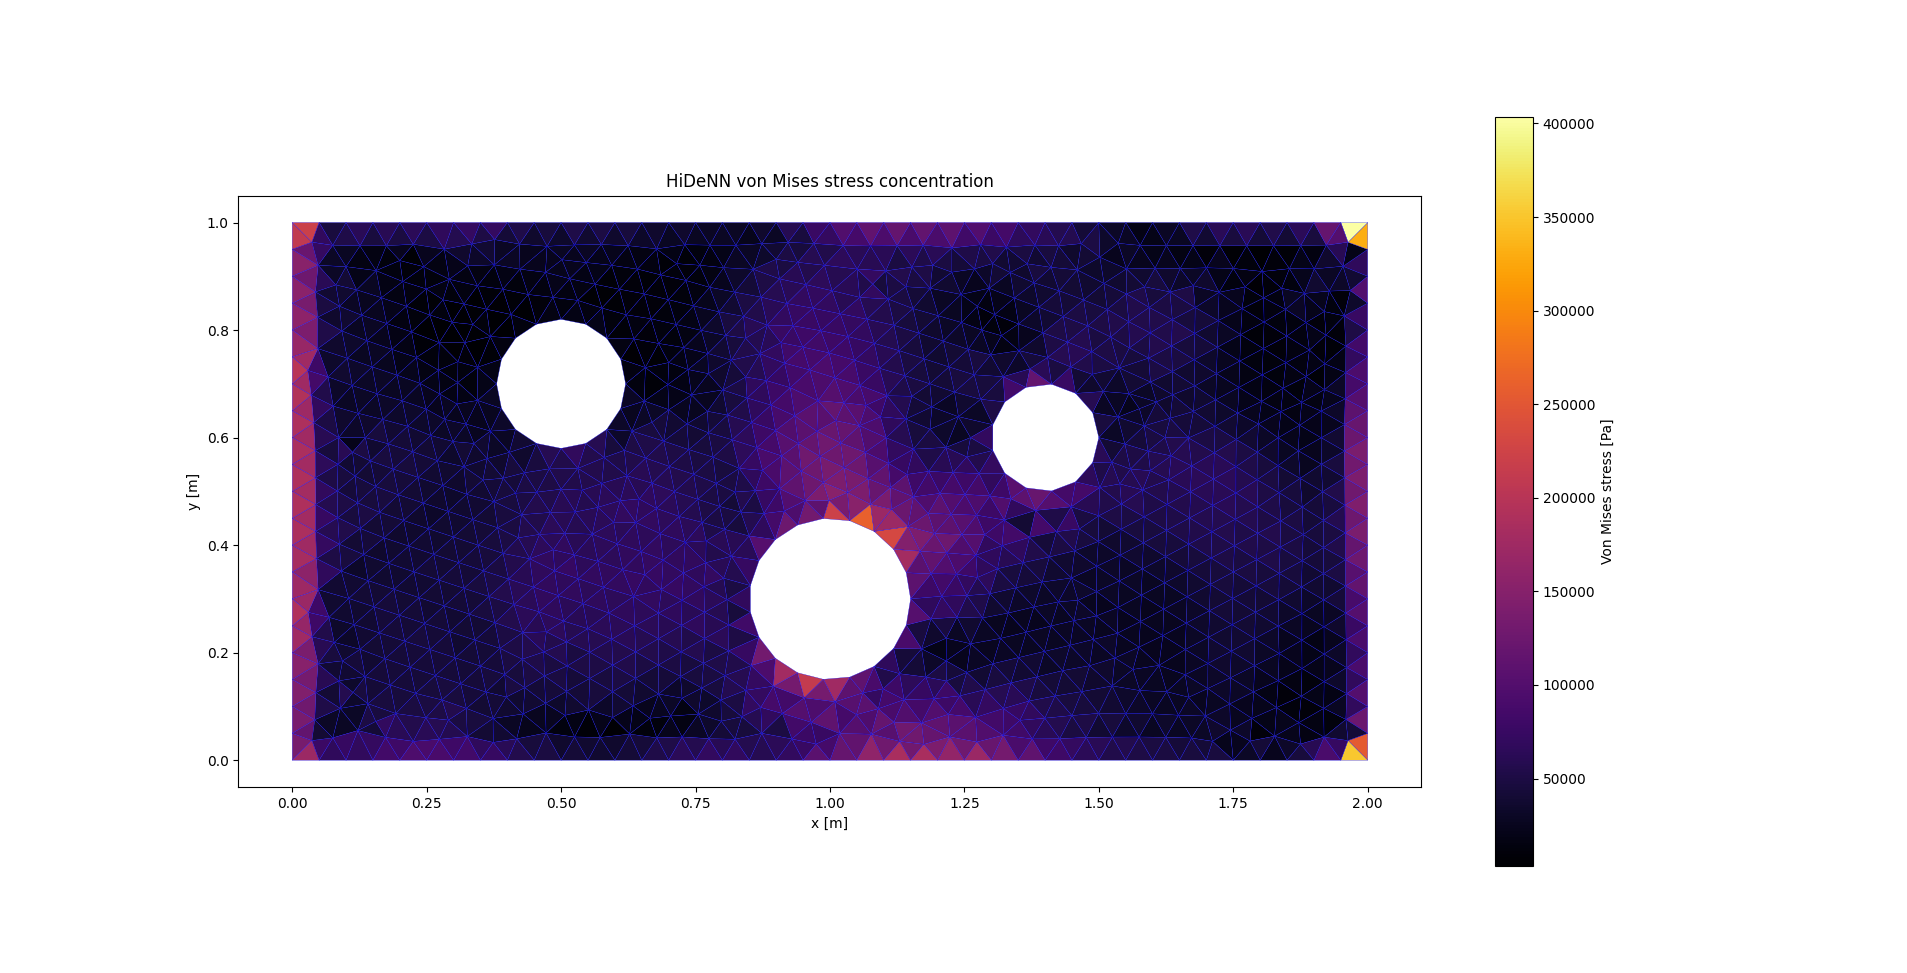
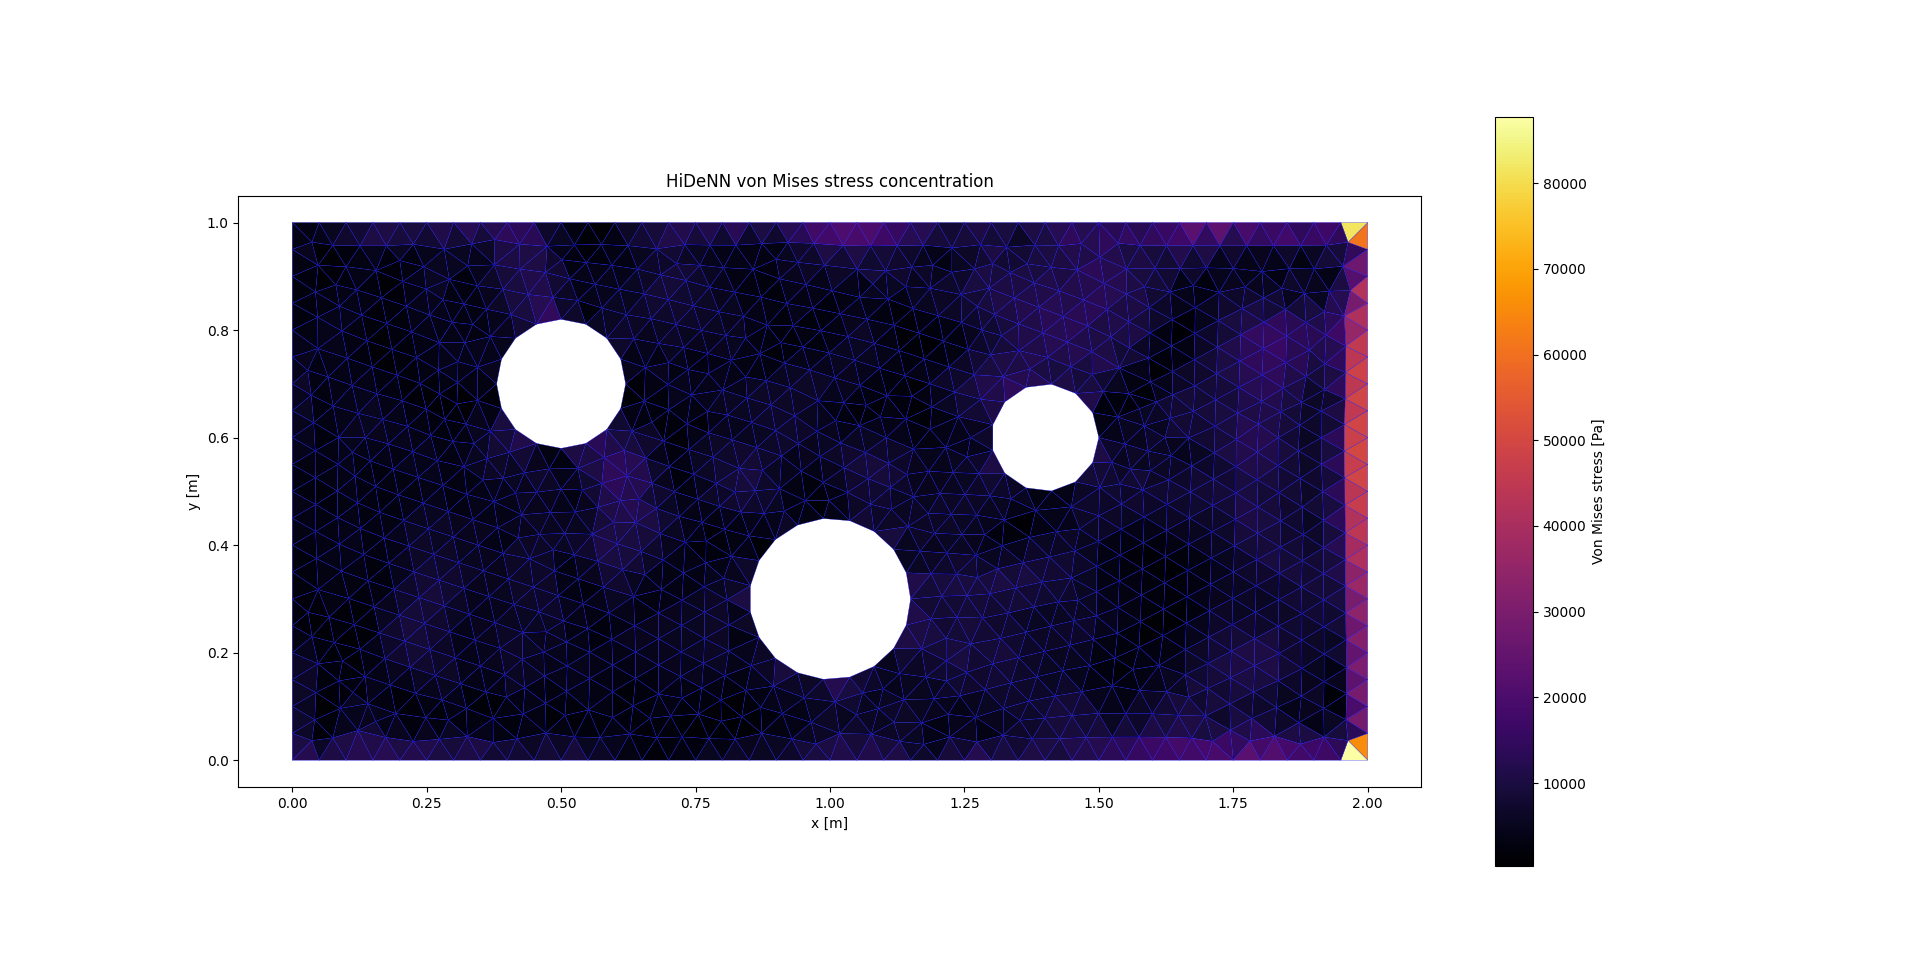
Fix Neumann

diff --git a/src/c_model.py b/src/c_model.py
@@ -2,19 +2,6 @@ import torch
 import torch.nn as nn
 import torch.nn.functional as F
     
-class NeumannEdgesWrapper:
-    def __init__(self, coords, edges):
-        self.coords = coords        # [Nnodes, 2]
-        self.edges = edges          # [N_edges, 2]
-
-    def __getitem__(self, idx):
-        # Support slicing and single index
-        x_i = self.coords[self.edges[idx, 0]]
-        x_ip1 = self.coords[self.edges[idx, 1]]
-        return x_i, x_ip1
-
-    def __len__(self):
-        return self.edges.shape[0]
     
 class ConnectivityWrapper:
     def __init__(self, coords, connectivity):
@@ -53,7 +40,7 @@ class PiecewiseLinearShapeNN2D(nn.Module):
     def __init__(self, node_coords, connectivity, patch, boundary_mask=None, dirichlet_mask=None, u_fixed=None, neumann_edges=None):
         super().__init__()
 
-        self.scale = 1e-5
+        self.scale = 0#1e-7
         self.dim_u = 2
 
         self.alpha = 0.2
@@ -141,7 +128,7 @@ class PiecewiseLinearShapeNN2D(nn.Module):
         """Freeze or unfreeze u parameters."""
         self.u_free.requires_grad_(not freeze)
         return self  # allows chaining 
-    # We can add a context manager to allow for the "with model.eval(): or something silimar"  
+    # We can add a context manager to allow for the "with model.eval(): or something similar"  
 
     @property
     def element_nodes(self):
@@ -149,11 +136,15 @@ class PiecewiseLinearShapeNN2D(nn.Module):
     
     @property
     def edge_nodes(self):
-        return NeumannEdgesWrapper(self.coords, self.neumann_edges)
+        return ConnectivityWrapper(self.coords, self.neumann_edges)
     
     @property
     def element_patch(self):
         return PatchWrapper(self.coords, self.connectivity, self.patch_safe, self.patch_mask)
+    
+    @property
+    def edge_patch(self):
+        return PatchWrapper(self.coords, self.neumann_edges, self.patch_safe, self.patch_mask)
         
             
     def forward(self, x_eval, elem_id, edge=False):
@@ -215,20 +206,43 @@ class PiecewiseLinearShapeNN2D(nn.Module):
         else:
             # --- 1D edge / Neumann ---
             # Get the two physical nodes of each edge
-            x_i, x_ip1 = self.edge_nodes[elem_id] 
+            coords_edge = self.edge_nodes[elem_id] 
+            #print("The edge coords", coords_edge.shape)
+            x_i   = coords_edge[:, 0, :]   # shape [M, 2]
+            x_ip1 = coords_edge[:, 1, :]   # shape [M, 2]
 
             # x_eval: [M,1] in reference edge coordinates ξ ∈ [0,1]
             xi = x_eval[:, 0:1]  # [M,1]
             N = torch.cat([1.0 - xi, xi], dim=1)  # linear shape functions for 2 nodes
 
-            # Gather nodal u values for edges
-            u_nodes = self.u_full[self.neumann_edges[elem_id]]         # [M,2,dim(u)]
+            # physical coordinates
+            x_physical = torch.sum(N.unsqueeze(-1) * coords_edge, dim=1)  # [M,2]
 
-            # Interpolate displacement along edge
-            u_h = torch.sum(N.unsqueeze(2) * u_nodes, dim=1)  # [M, dim(u)]
+            # Patch coordinates
+            coords_patch, patch_mask_elem, patch_idx_elem = self.edge_patch[elem_id]  # coords_patch: [M,2,n_patch,2], patch_mask_elem [M,2,n_patch], patch_idx_elem [M,2,n_patch]
+            # Compute radial basis
+            R_vector, dR_dx = self.compute_patch_radials(x_physical, coords_patch, patch_mask_elem)
+            # Compute polynomial basis
+            P_vector, dP_dx = self.compute_patch_polynomials(x_physical, coords_patch, patch_mask_elem, edge=edge)
+            # Compute patch weights
+            W, _ = self.solve_patch_weights(elem_id, R_vector, P_vector, dR_dx, dP_dx, edge=edge)
+
+            # Gather the patch nodal u values per element:
+            u_patch = self.u_full[patch_idx_elem]  # [M,2,n_patch, dim_u]
+            u_patch = u_patch * patch_mask_elem[..., None]   # zero out padded nodes
+
+            # Step 1: sum over patch nodes
+            # W: [M,3,n_patch], u_patch: [M,2,n_patch,dim_u] -> sum_j W_ij * u_j 
+            Wu = torch.einsum('mij,mijd->mid', W, u_patch) #[M,2,dim_u] 
+            # print("Wu", Wu.shape)
+
+            #Step 2: sum over element nodes with shape functions
+            #N: [M,2], Wu: [M,2,dim_u] -> -> sum_i N_i * Wu_i 
+            u_h = torch.einsum('mi,mid->md', N, Wu) # [M,dim_u]
 
             # Compute 1D Jacobian = edge length
             ds = torch.norm(x_ip1 - x_i, dim=1)  # [M]
+
             return u_h, ds
 
     def precompute_Jaccobians(self):
@@ -249,26 +263,43 @@ class PiecewiseLinearShapeNN2D(nn.Module):
         self.register_buffer("detJ", detJ)        
 
     def precompute_G_patch(self):
+        # --- 2D triangle / domain ---
+        node_per_elem = 3
         elem_id = torch.arange(self.Nelems, device=self.device)
         coords_patch, patch_mask_elem, _ = self.element_patch[elem_id]  # coords_patch: [Nelems,3,n_patch,2], patch_mask_elem [Nelems,3,n_patch], patch_idx_elem [Nelems,3,n_patch]
         
+        # Save G_inv_patch 
+        Ginv = self._compute_G_inv(self.Nelems, node_per_elem, coords_patch, patch_mask_elem)
+        self.register_buffer("G_inv_patch", Ginv)
+
+        # --- 1D edge / Neumann ---
+        node_per_elem = 2
+        elem_id = torch.arange(self.N_edges, device=self.device)
+        coords_patch, patch_mask_elem, _ = self.edge_patch[elem_id]  # coords_patch: [Nelems,3,n_patch,2], patch_mask_elem [Nelems,3,n_patch], patch_idx_elem [Nelems,3,n_patch]
+        
+        # Save G_inv_patch_edge for edges
+        Ginv = self._compute_G_inv(self.N_edges, node_per_elem, coords_patch, patch_mask_elem)
+        self.register_buffer("G_inv_patch_edge", Ginv)
+
+    def _compute_G_inv(self, Nelems, node_per_elem, coords_patch, patch_mask_elem):
+
         # 2D mask for pairwise: valid if both patch entries are valid
-        mask_mom_valid = patch_mask_elem.unsqueeze(-1) & patch_mask_elem.unsqueeze(-2)  # [Nelems,3,n_patch,n_patch]
+        mask_mom_valid = patch_mask_elem.unsqueeze(-1) & patch_mask_elem.unsqueeze(-2)  # [Nelems,node_per_elem,n_patch,n_patch]
         
         # --- r_moments: pairwise distances between patch nodes ---
-        diff = coords_patch.unsqueeze(3) - coords_patch.unsqueeze(2)  # [Nelems,3,n_patch,n_patch,2]
-        r_moments = torch.norm(diff, dim=-1)                           # [Nelems,3,n_patch,n_patch]
+        diff = coords_patch.unsqueeze(3) - coords_patch.unsqueeze(2)  # [Nelems,node_per_elem,n_patch,n_patch,2]
+        r_moments = torch.norm(diff, dim=-1)                           # [Nelems,node_per_elem,n_patch,n_patch]
 
         # --- R_moments: cubic spline ---
         s_mom = r_moments / self.alpha
-        mask_mom = (s_mom <= 1) & mask_mom_valid # first mask is for the cubic spline: might move it later; second mask to 0 out the padding nodes
+        mask_mom = (s_mom <= 1) & mask_mom_valid # first mask is for the cubic spline; second mask to 0 out the padding nodes
         R_moments = torch.zeros_like(r_moments)
         R_moments[mask_mom] = (1 - s_mom[mask_mom])**2 * (1 + 2 * s_mom[mask_mom])
 
 
         # --- P_moments on patch nodes ---
-        x_patch = coords_patch[..., 0]  # [Nelems,3,n_patch]
-        y_patch = coords_patch[..., 1]  # [Nelems,3,n_patch]
+        x_patch = coords_patch[..., 0]  # [Nelems,node_per_elem,n_patch]
+        y_patch = coords_patch[..., 1]  # [Nelems,node_per_elem,n_patch]
         P_moments = torch.stack([
             torch.ones_like(x_patch),       # 1
             x_patch,                        # x
@@ -276,12 +307,12 @@ class PiecewiseLinearShapeNN2D(nn.Module):
             x_patch**2,                     # x^2
             x_patch * y_patch,              # x*y
             y_patch**2                      # y^2
-        ], dim=-1)                           # [Nelems,3,n_patch, m_patch]
+        ], dim=-1)                           # [Nelems,node_per_elem,n_patch, m_patch]
 
         # Mask out padded nodes (broadcast mask to last dim)
-        P_moments = P_moments * patch_mask_elem.unsqueeze(-1).float()  # [Nelems,3,n_patch,m_patch]
+        P_moments = P_moments * patch_mask_elem.unsqueeze(-1).float()  # [Nelems,node_per_elem3,n_patch,m_patch]
 
-        # --- Build block matrix G: [Nelems,3,n_patch+m_patch, n_patch+m_patch] ---
+        # --- Build block matrix G: [Nelems,node_per_elem,n_patch+m_patch, n_patch+m_patch] ---
         # Upper-left: R_moments
         G_UL = R_moments
         # Upper-right: P_moments
@@ -289,39 +320,36 @@ class PiecewiseLinearShapeNN2D(nn.Module):
         # Lower-left: P_moments^T (transpose last two dims)
         G_LL = P_moments.transpose(-2, -1)
         # Lower-right: zeros [M,3,m_patch,m_patch]
-        G_LR = torch.zeros(self.Nelems, 3, self.m_patch, self.m_patch, device=self.device, dtype=self.dtype)
+        G_LR = torch.zeros(Nelems, node_per_elem, self.m_patch, self.m_patch, device=self.device, dtype=self.dtype)
 
         # Concatenate along last dimension
-        G_top = torch.cat([G_UL, G_UR], dim=-1)    # [Nelems,3,n_patch,n_patch+m_patch]
-        G_bottom = torch.cat([G_LL, G_LR], dim=-1) # [Nelems,3,m_patch,n_patch+m_patch]
-        G = torch.cat([G_top, G_bottom], dim=-2)   # [Nelems,3,n_patch+m_patch,n_patch+m_patch]
-        #print("G matrix",G.shape)
+        G_top = torch.cat([G_UL, G_UR], dim=-1)    # [Nelems,node_per_elem,n_patch,n_patch+m_patch]
+        G_bottom = torch.cat([G_LL, G_LR], dim=-1) # [Nelems,node_per_elem,m_patch,n_patch+m_patch]
+        G = torch.cat([G_top, G_bottom], dim=-2)   # [Nelems,node_per_elem,n_patch+m_patch,n_patch+m_patch]
 
         # --- Add small epsilon on diagonal for padded nodes ---
         eps = 1e-8
         # Create a mask for the upper-left diagonal: True where padded
-        padded_diag_mask = ~patch_mask_elem  # [Nelems,3,n_patch]
+        padded_diag_mask = ~patch_mask_elem  # [Nelems,node_per_elem,n_patch]
         diag_indices = torch.arange(self.n_patch)
         # Broadcast to [Nelems,3,n_patch]
         G[..., diag_indices, diag_indices] += eps * padded_diag_mask
 
-        Ginv = torch.linalg.inv(G)  # Inverse G: [Nelems,3,n_patch+m_patch,n_patch+m_patch]
+        Ginv = torch.linalg.inv(G)  # Inverse G: [Nelems,node_per_elem,n_patch+m_patch,n_patch+m_patch]
 
-        # Save G matrix
-        #self.register_buffer("G_patch", G)
-        self.register_buffer("G_inv_patch", Ginv)
+        return Ginv
 
 
     def compute_patch_radials(self, x_physical: torch.Tensor, coords_patch: torch.Tensor, patch_mask_elem: torch.Tensor):
 
         # --- r_vector: distances from physical points to patch nodes ---
         x_phys_exp = x_physical.unsqueeze(1).unsqueeze(2)  # [M,1,1,2]
-        diff_vec = x_phys_exp - coords_patch               # [M,3,n_patch,2]
-        r_vector = torch.norm(diff_vec, dim=-1)           # [M,3,n_patch]
+        diff_vec = x_phys_exp - coords_patch               # [M,node_per_elem,n_patch,2]
+        r_vector = torch.norm(diff_vec, dim=-1)           # [M,node_per_elem,n_patch]
 
         # --- R_vector: cubic spline ---
         s_vec = r_vector / self.alpha
-        mask_vec = (s_vec <= 1) & patch_mask_elem # first mask is for the cubic spline: might move it later; second mask to 0 out the padding nodes
+        mask_vec = (s_vec <= 1) & patch_mask_elem # first mask is for the cubic spline; second mask to 0 out the padding nodes
         R_vector = torch.zeros_like(r_vector)
         R_vector[mask_vec] = (1 - s_vec[mask_vec])**2 * (1 + 2 * s_vec[mask_vec])
 
@@ -330,19 +358,25 @@ class PiecewiseLinearShapeNN2D(nn.Module):
         dR_dr[mask_vec] = -6 * (1 - s_vec[mask_vec]) / self.alpha
 
         eps = 1e-12
-        dr_dx = diff_vec / (r_vector.unsqueeze(-1) + eps)  # [M,3,n_patch,2]
-        dR_vector_dx = dR_dr.unsqueeze(-1) * dr_dx         # [M,3,n_patch,2]
+        dr_dx = diff_vec / (r_vector.unsqueeze(-1) + eps)  # [M,node_per_elem,n_patch,2]
+        dR_vector_dx = dR_dr.unsqueeze(-1) * dr_dx         # [M,node_per_elem,n_patch,2]
 
         return R_vector, dR_vector_dx
     
-    def compute_patch_polynomials(self, x_physical: torch.Tensor, coords_patch: torch.Tensor, patch_mask_elem: torch.Tensor):
+    def compute_patch_polynomials(self, x_physical: torch.Tensor, coords_patch: torch.Tensor, patch_mask_elem: torch.Tensor, edge=False):
 
         # --- P_vector on evaluation points ---
         x_eval = x_physical[:, 0:1]  # [M,1]
         y_eval = x_physical[:, 1:2]  # [M,1]
-        # Broadcast to element nodes
-        x_eval_nodes = x_eval.expand(-1, 3)  # [M,3]
-        y_eval_nodes = y_eval.expand(-1, 3)  # [M,3]
+
+        if edge:
+            # Broadcast to element nodes
+            x_eval_nodes = x_eval.expand(-1, 2)  # [M,2]
+            y_eval_nodes = y_eval.expand(-1, 2)  # [M,2]
+        else:
+            # Broadcast to element nodes
+            x_eval_nodes = x_eval.expand(-1, 3)  # [M,3]
+            y_eval_nodes = y_eval.expand(-1, 3)  # [M,3]
 
         P_vector = torch.stack([
             torch.ones_like(x_eval_nodes),  # 1
@@ -351,7 +385,7 @@ class PiecewiseLinearShapeNN2D(nn.Module):
             x_eval_nodes**2,                # x^2
             x_eval_nodes * y_eval_nodes,    # x*y
             y_eval_nodes**2                 # y^2
-        ], dim=-1)                           # [M,3,m_patch]
+        ], dim=-1)                           # [M,node_per_elem,m_patch]
 
         # --- dP_dx w.r.t x_physical ---
         # derivative of each polynomial term w.r.t [x, y]
@@ -362,30 +396,34 @@ class PiecewiseLinearShapeNN2D(nn.Module):
             torch.stack([2*x_eval_nodes,                 torch.zeros_like(x_eval_nodes)], dim=-1),          # derivative of x^2
             torch.stack([y_eval_nodes,                   x_eval_nodes], dim=-1),                            # derivative of x*y
             torch.stack([torch.zeros_like(x_eval_nodes), 2*y_eval_nodes], dim=-1)                           # derivative of y^2
-        ], dim=-2)  # [M,3,m_patch*2]
+        ], dim=-2)  # [M,node_per_elem,m_patch*2]
 
         return P_vector, dP_dx
 
     def solve_patch_weights(self, elem_id: torch.Tensor,
                         R_vector: torch.Tensor, P_vector: torch.Tensor,
-                        dR_dx: torch.Tensor, dP_dx: torch.Tensor):
+                        dR_dx: torch.Tensor, dP_dx: torch.Tensor,
+                        edge=False):
 
-        # Build vector b: [M,3,n_patch+m_patch]
-        b = torch.cat([R_vector, P_vector], dim=-1)  # [M,3,n_patch+m_patch]
+        # Build vector b: [M,node_per_elem,n_patch+m_patch]
+        b = torch.cat([R_vector, P_vector], dim=-1)  # [M,node_per_elem,n_patch+m_patch]
 
-        # Build derivative vector b: [M,3,n_patch+m_patch,2] 
-        db_dx = torch.cat([dR_dx, dP_dx], dim=-2)   # [M,3,n_patch+m_patch,2]
+        # Build derivative vector b: [M,node_per_elem,n_patch+m_patch,2] 
+        db_dx = torch.cat([dR_dx, dP_dx], dim=-2)   # [M,node_per_elem,n_patch+m_patch,2]
 
         # Get precomputed inverse 
-        G_inv = self.G_inv_patch[elem_id]  # [M,3,n_patch+m_patch,n_patch+m_patch]
+        if edge:
+            G_inv = self.G_inv_patch_edge[elem_id]  # [M,2,n_patch+m_patch,n_patch+m_patch]
+        else:
+            G_inv = self.G_inv_patch[elem_id]  # [M,3,n_patch+m_patch,n_patch+m_patch]
 
         # Multiply matrices
-        W_tilde = torch.einsum('mijk,mij->mik', G_inv, b)           # [M,3,n_patch+m_patch]
-        dW_tilde = torch.einsum('mijk,mijd->mikd', G_inv, db_dx)    # [M,3,n_patch+m_patch,2]
+        W_tilde = torch.einsum('mijk,mij->mik', G_inv, b)           # [M,node_per_elem,n_patch+m_patch]
+        dW_tilde = torch.einsum('mijk,mijd->mikd', G_inv, db_dx)    # [M,node_per_elem,n_patch+m_patch,2]
 
         # Extract patch weights
-        W = W_tilde[..., :self.n_patch]          # [M,3,n_patch]
-        dW_dx = dW_tilde[..., :self.n_patch, :]  # [M,3,n_patch,2]
+        W = W_tilde[..., :self.n_patch]          # [M,node_per_elem,n_patch]
+        dW_dx = dW_tilde[..., :self.n_patch, :]  # [M,node_per_elem,n_patch,2]
 
         return W, dW_dx
     

diff --git a/src/optimization.py b/src/optimization.py
@@ -16,15 +16,22 @@ def exponential_warmup(epoch, total_epochs, lr_init, lr_target):
 def cosine_warmup(epoch, total_epochs, lr_init, lr_target):
     return lr_init + 0.5 * (lr_target - lr_init) * (1 - math.cos(math.pi * epoch / total_epochs))
 
+def polynomial_warmup(epoch, total_epochs, lr_init, lr_target, power=2):
+    ratio = (epoch / total_epochs) ** power
+    return lr_init + (lr_target - lr_init) * ratio
+
 def no_warmup(epoch, total_epochs, lr_init, lr_target):
     return lr_init
 
-warmup_dict = {'linear': linear_warmup, 'exponential': exponential_warmup, 'cosine':cosine_warmup, 'None': no_warmup}
+warmup_dict = {
+    'linear': linear_warmup,
+    'exponential': exponential_warmup,
+    'cosine': cosine_warmup,
+    'polynomial': polynomial_warmup,
+    'None': no_warmup
+}
 
-def no_decay(epoch, total_epochs, lr_init, lr_target):
-    return lr_init
 
-decay_dict = {'None': no_decay}
 
 
 class HybridOptimizer:
@@ -144,7 +151,7 @@ class HybridOptimizer:
 
         plt.figure(figsize=(10, 5))
         #plt.semilogy(epochs, losses, label="Loss", color='blue')
-        plt.loglog(epochs, losses, label="Loss", color='blue')
+        plt.plot(epochs, losses, label="Loss", color='blue')
 
         # Add vertical lines for events
         t = 0

diff --git a/src/c_loss.py b/src/c_loss.py
@@ -89,7 +89,10 @@ class EnergyLoss2D:
 
     # Neumann edge contribution
     def edge_energy(self, model, t_force: Optional[Callable[[torch.Tensor], torch.Tensor]] = None) -> torch.Tensor:
-        x_i, x_ip1 = model.edge_nodes[:]  # [N_edges,2]
+        #x_i, x_ip1 = model.edge_nodes[:]  
+        coords_edge = model.edge_nodes[:]  # [N_edges,2]
+        x_i   = coords_edge[:, 0, :]   # shape [N_edges, 2]
+        x_ip1 = coords_edge[:, 1, :]   # shape [N_edges, 2]
         N_edges = model.N_edges
 
         # Map 1D Gauss -> physical points
